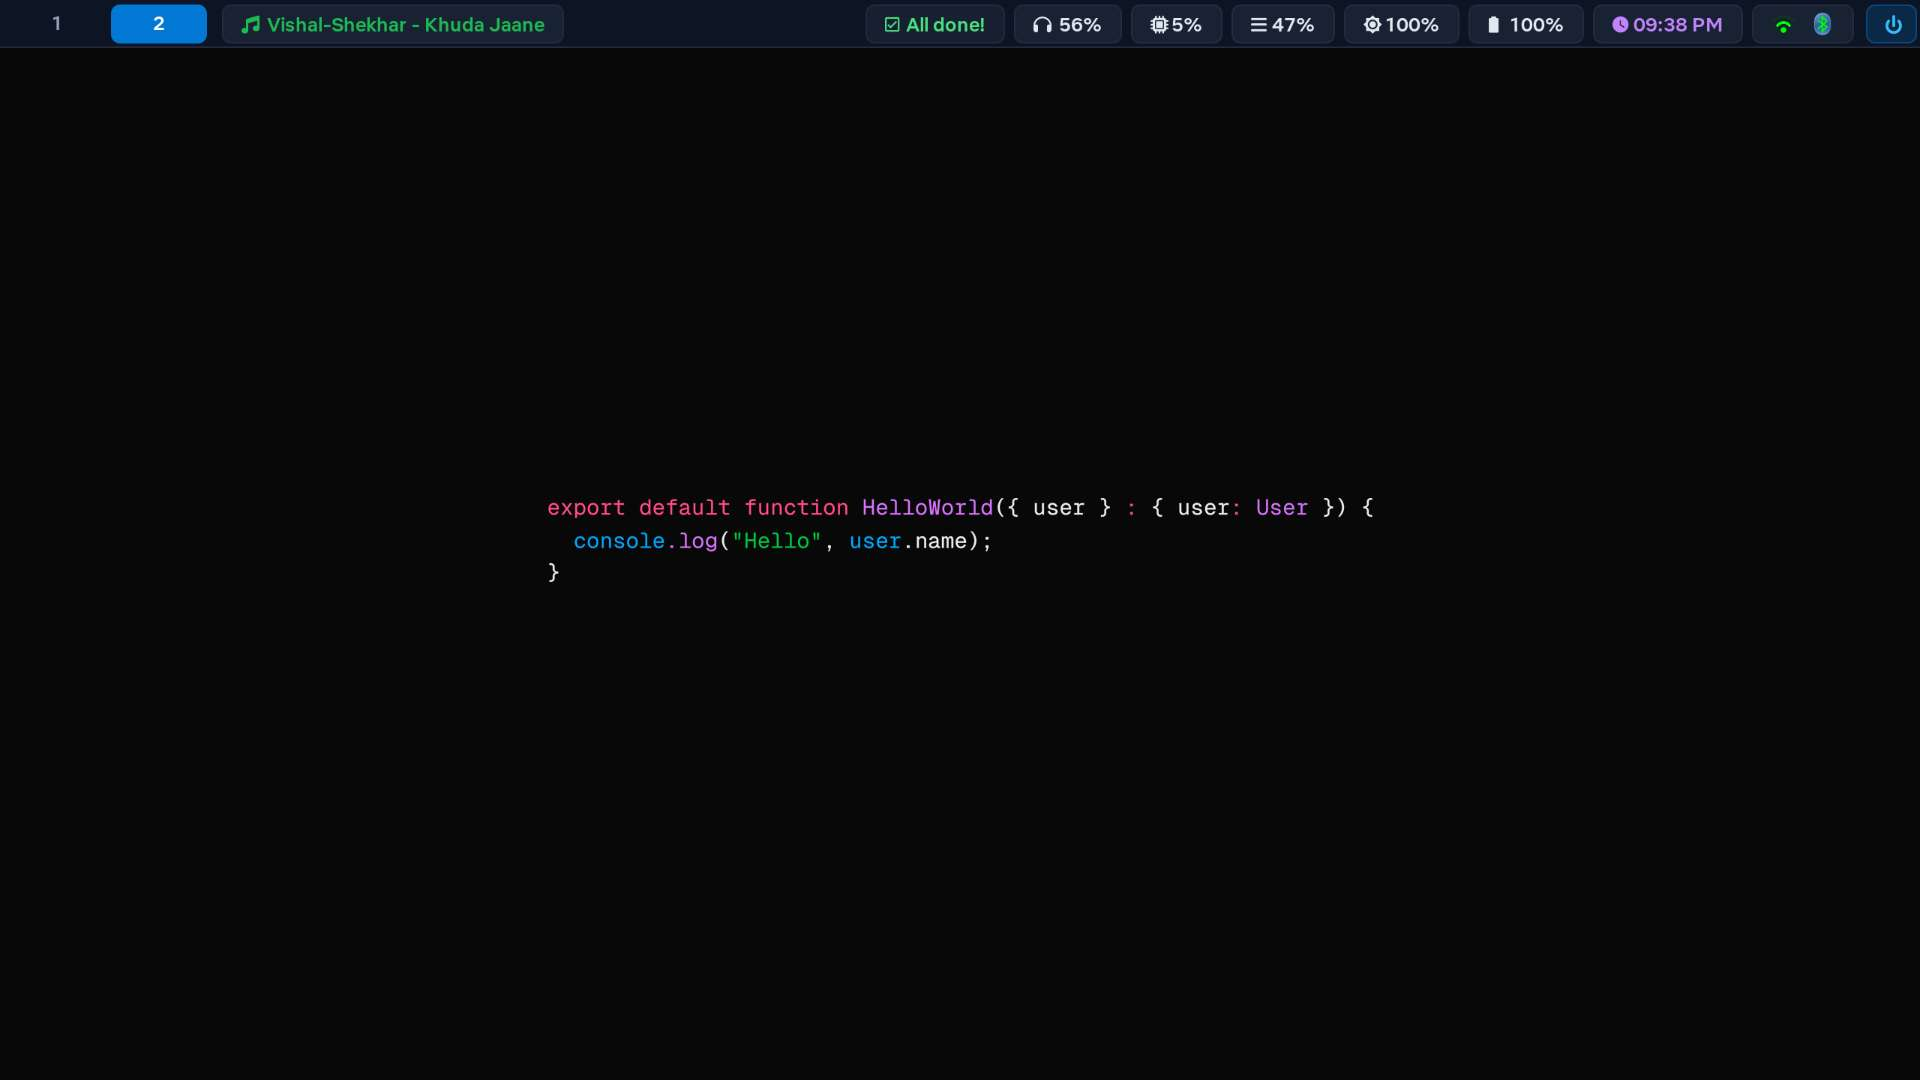
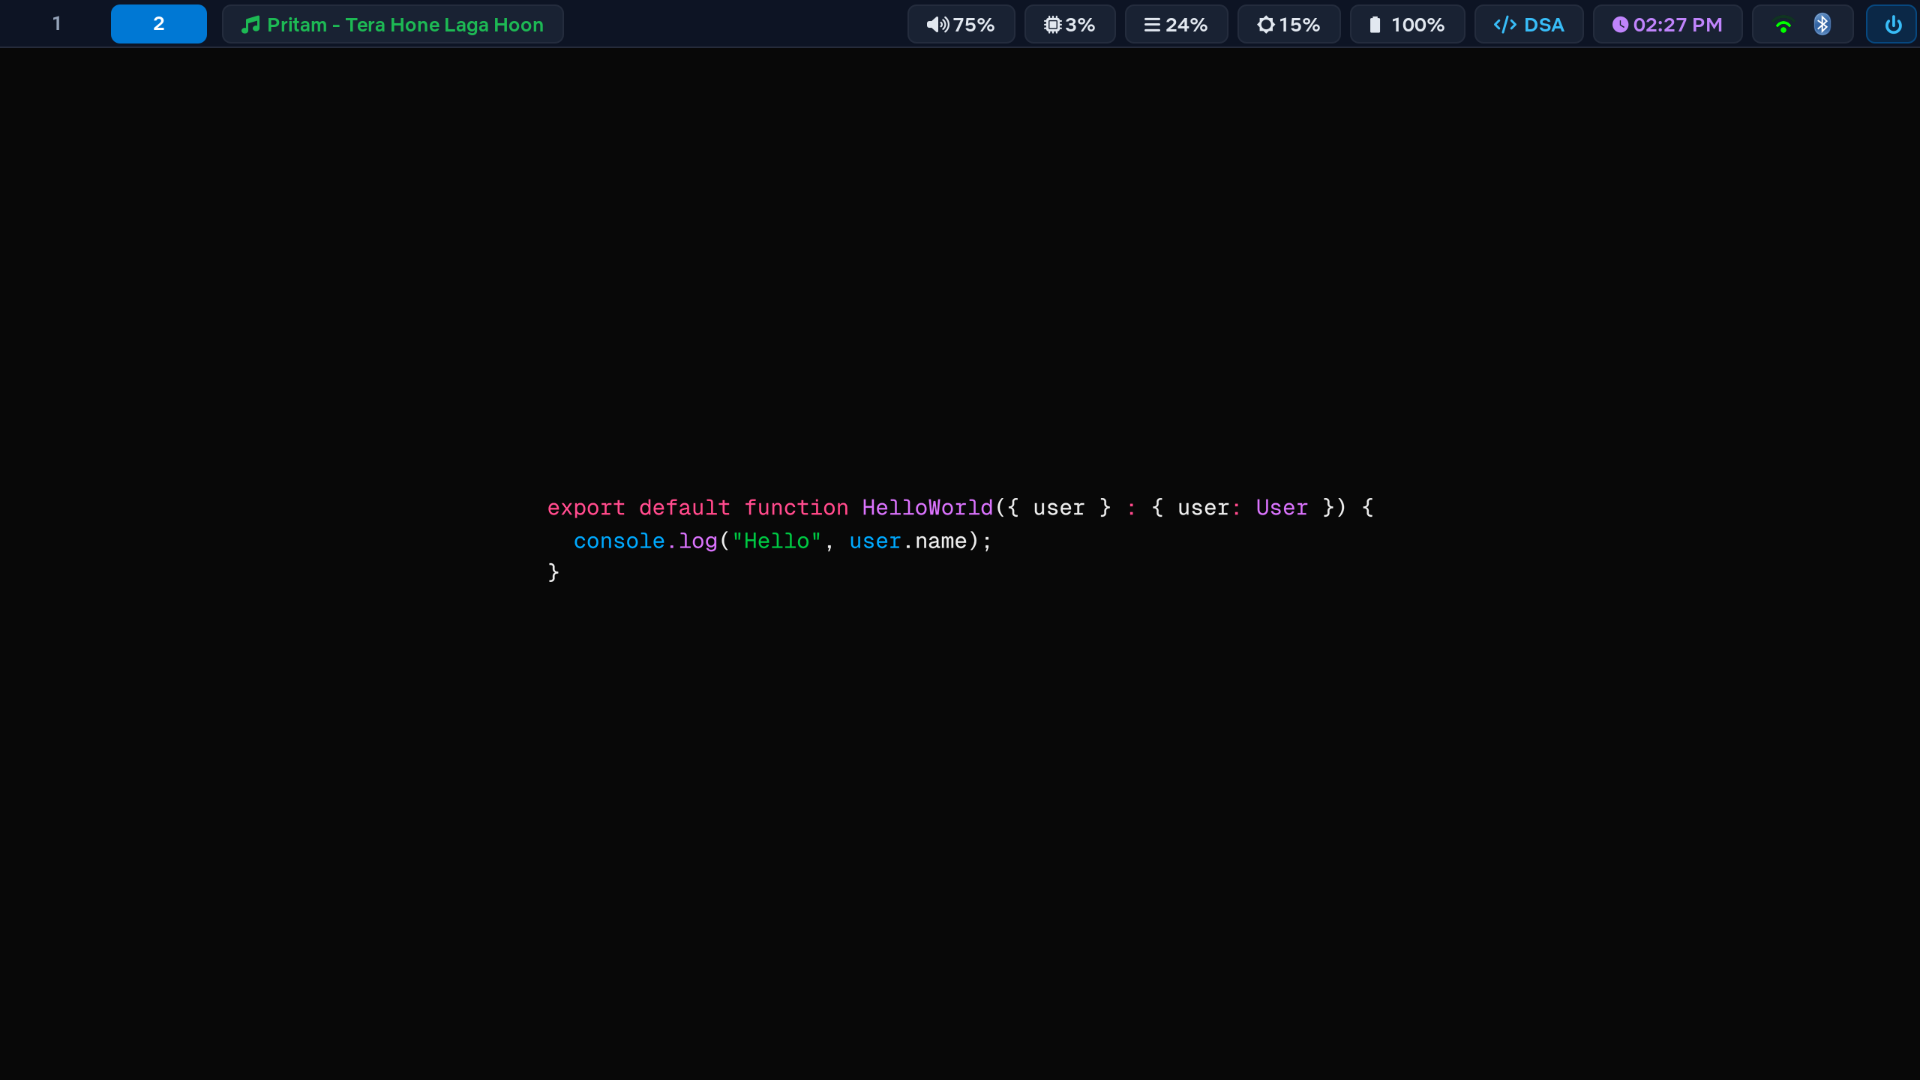
update readme and screenshots

diff --git a/README.md b/README.md
@@ -20,9 +20,9 @@ My personal Arch Linux setup running Sway on an **ASUS VivoBook 14**. Built arou
 
 #### Rofi Scripts & Workflows
 
-|              Clipboard Manager               |            To-Do List Script            |                 Power Menu                 |
-| :------------------------------------------: | :-------------------------------------: | :----------------------------------------: |
-| ![Clipboard Manager](./screenshots/clip.png) | ![To-Do Script](./screenshots/todo.png) | ![Power Menu](./screenshots/powermenu.png) |
+|                            Clipboard Manager |                 Power Menu                 |
+| -------------------------------------------: | :----------------------------------------: |
+| ![Clipboard Manager](./screenshots/clip.png) | ![Power Menu](./screenshots/powermenu.png) |
 
 ### 🎨 Theme & Appearance
 
@@ -60,7 +60,6 @@ options snd-intel-dspcfg dsp_driver=1
 | `Mod + Return`    | Open `foot` terminal                                    |
 | `Mod + d`         | Open Rofi launcher                                      |
 | `Mod + t`         | Open Thunar file manager                                |
-| `Mod + n`         | Toggle Rofi To-Do list script                           |
 | `Mod + v`         | Open Rofi Clipboard history (`cliphist`)                |
 | `Mod + Shift + e` | Open Rofi Power Menu                                    |
 | `Print`           | Capture full screen to `~/Pictures/Screenshots/`        |
@@ -82,7 +81,7 @@ dotfiles/
 │   │   └── scripts/     # todo, clip, powermenu scripts
 │   ├── sway/            # Sway config, keybinds, wallpapers
 │   ├── swaylock/        # Screen locker
-│   ├── waybar/          # Waybar config, CSS, and todo status module
+│   ├── waybar/          # Waybar config and CSS
 │   └── zed/             # Zed editor config
 ├── .local/
 │   └── share/
@@ -114,7 +113,7 @@ yay -S --needed - < aur_pkglist.txt
 cd ~/dotfiles
 
 # Copy user configs
-cp -ur .config/{easyeffects,foot,gtk-3.0,gtk-4.0,mako,rofi,sway,swaylock,waybar,zed} ~/.config/
+cp -ur .config/{easyeffects,foot,gtk-3.0,gtk-4.0,mako,rofi,sway,swayimg,swaylock,waybar,zed} ~/.config/
 
 # Copy custom fonts and update cache
 mkdir -p ~/.local/share/fonts
